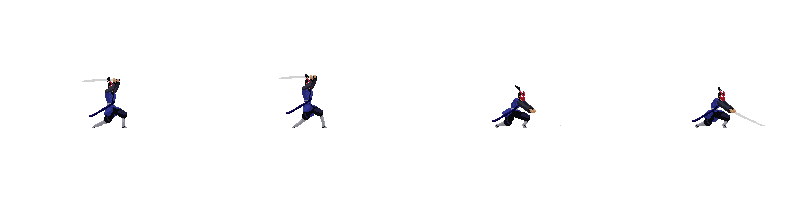
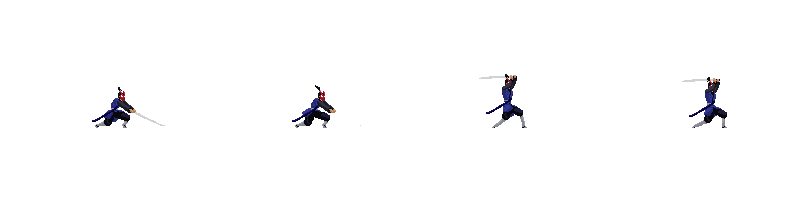
left right attack animations 1 and 2

diff --git a/src/fighter.ts b/src/fighter.ts
@@ -49,6 +49,7 @@ export class Fighter {
   private framesElapsed = 0;
   private holdFrame = 5;
   private currentFrame = 0;
+  private attackType: 1 | 2 = 1;
 
   constructor(props: FighterProps) {
     this.props = props;
@@ -165,7 +166,7 @@ export class Fighter {
       this.action = "idle";
     }
     if (this.isAttacking) {
-      this.action = "attack1";
+      this.action = `attack${this.attackType}`;
     }
     if (this.isTakingHit) {
       this.action = "take hit";
@@ -231,27 +232,26 @@ export class Fighter {
 
   public async attack(other: Fighter): Promise<boolean> {
     if (this.isAttacking) return false;
+
+    this.attackType = Math.random() > 0.5 ? 1 : 2;
     this.currentFrame = 0;
     this.framesElapsed = 1;
     this.isAttacking = true;
 
     const attackPromise: Promise<boolean> = new Promise((resolve) => {
-      setTimeout(
-        () => {
-          this.isAttacking = false;
-          if (!this.canAttack(other)) {
-            resolve(false);
-            return;
-          }
+      setTimeout(() => {
+        this.isAttacking = false;
+        if (!this.canAttack(other)) {
+          resolve(false);
+          return;
+        }
 
-          other.health -= 10;
-          if (other.health <= 0) {
-            other.health = 0;
-          }
-          resolve(true);
-        },
-        1000 / Game.actionFrameCount[this.props.type]["attack1"]
-      );
+        other.health -= 10;
+        if (other.health <= 0) {
+          other.health = 0;
+        }
+        resolve(true);
+      }, 1000 / Game.actionFrameCount[this.props.type]["attack1"]);
     });
     return await attackPromise;
   }
